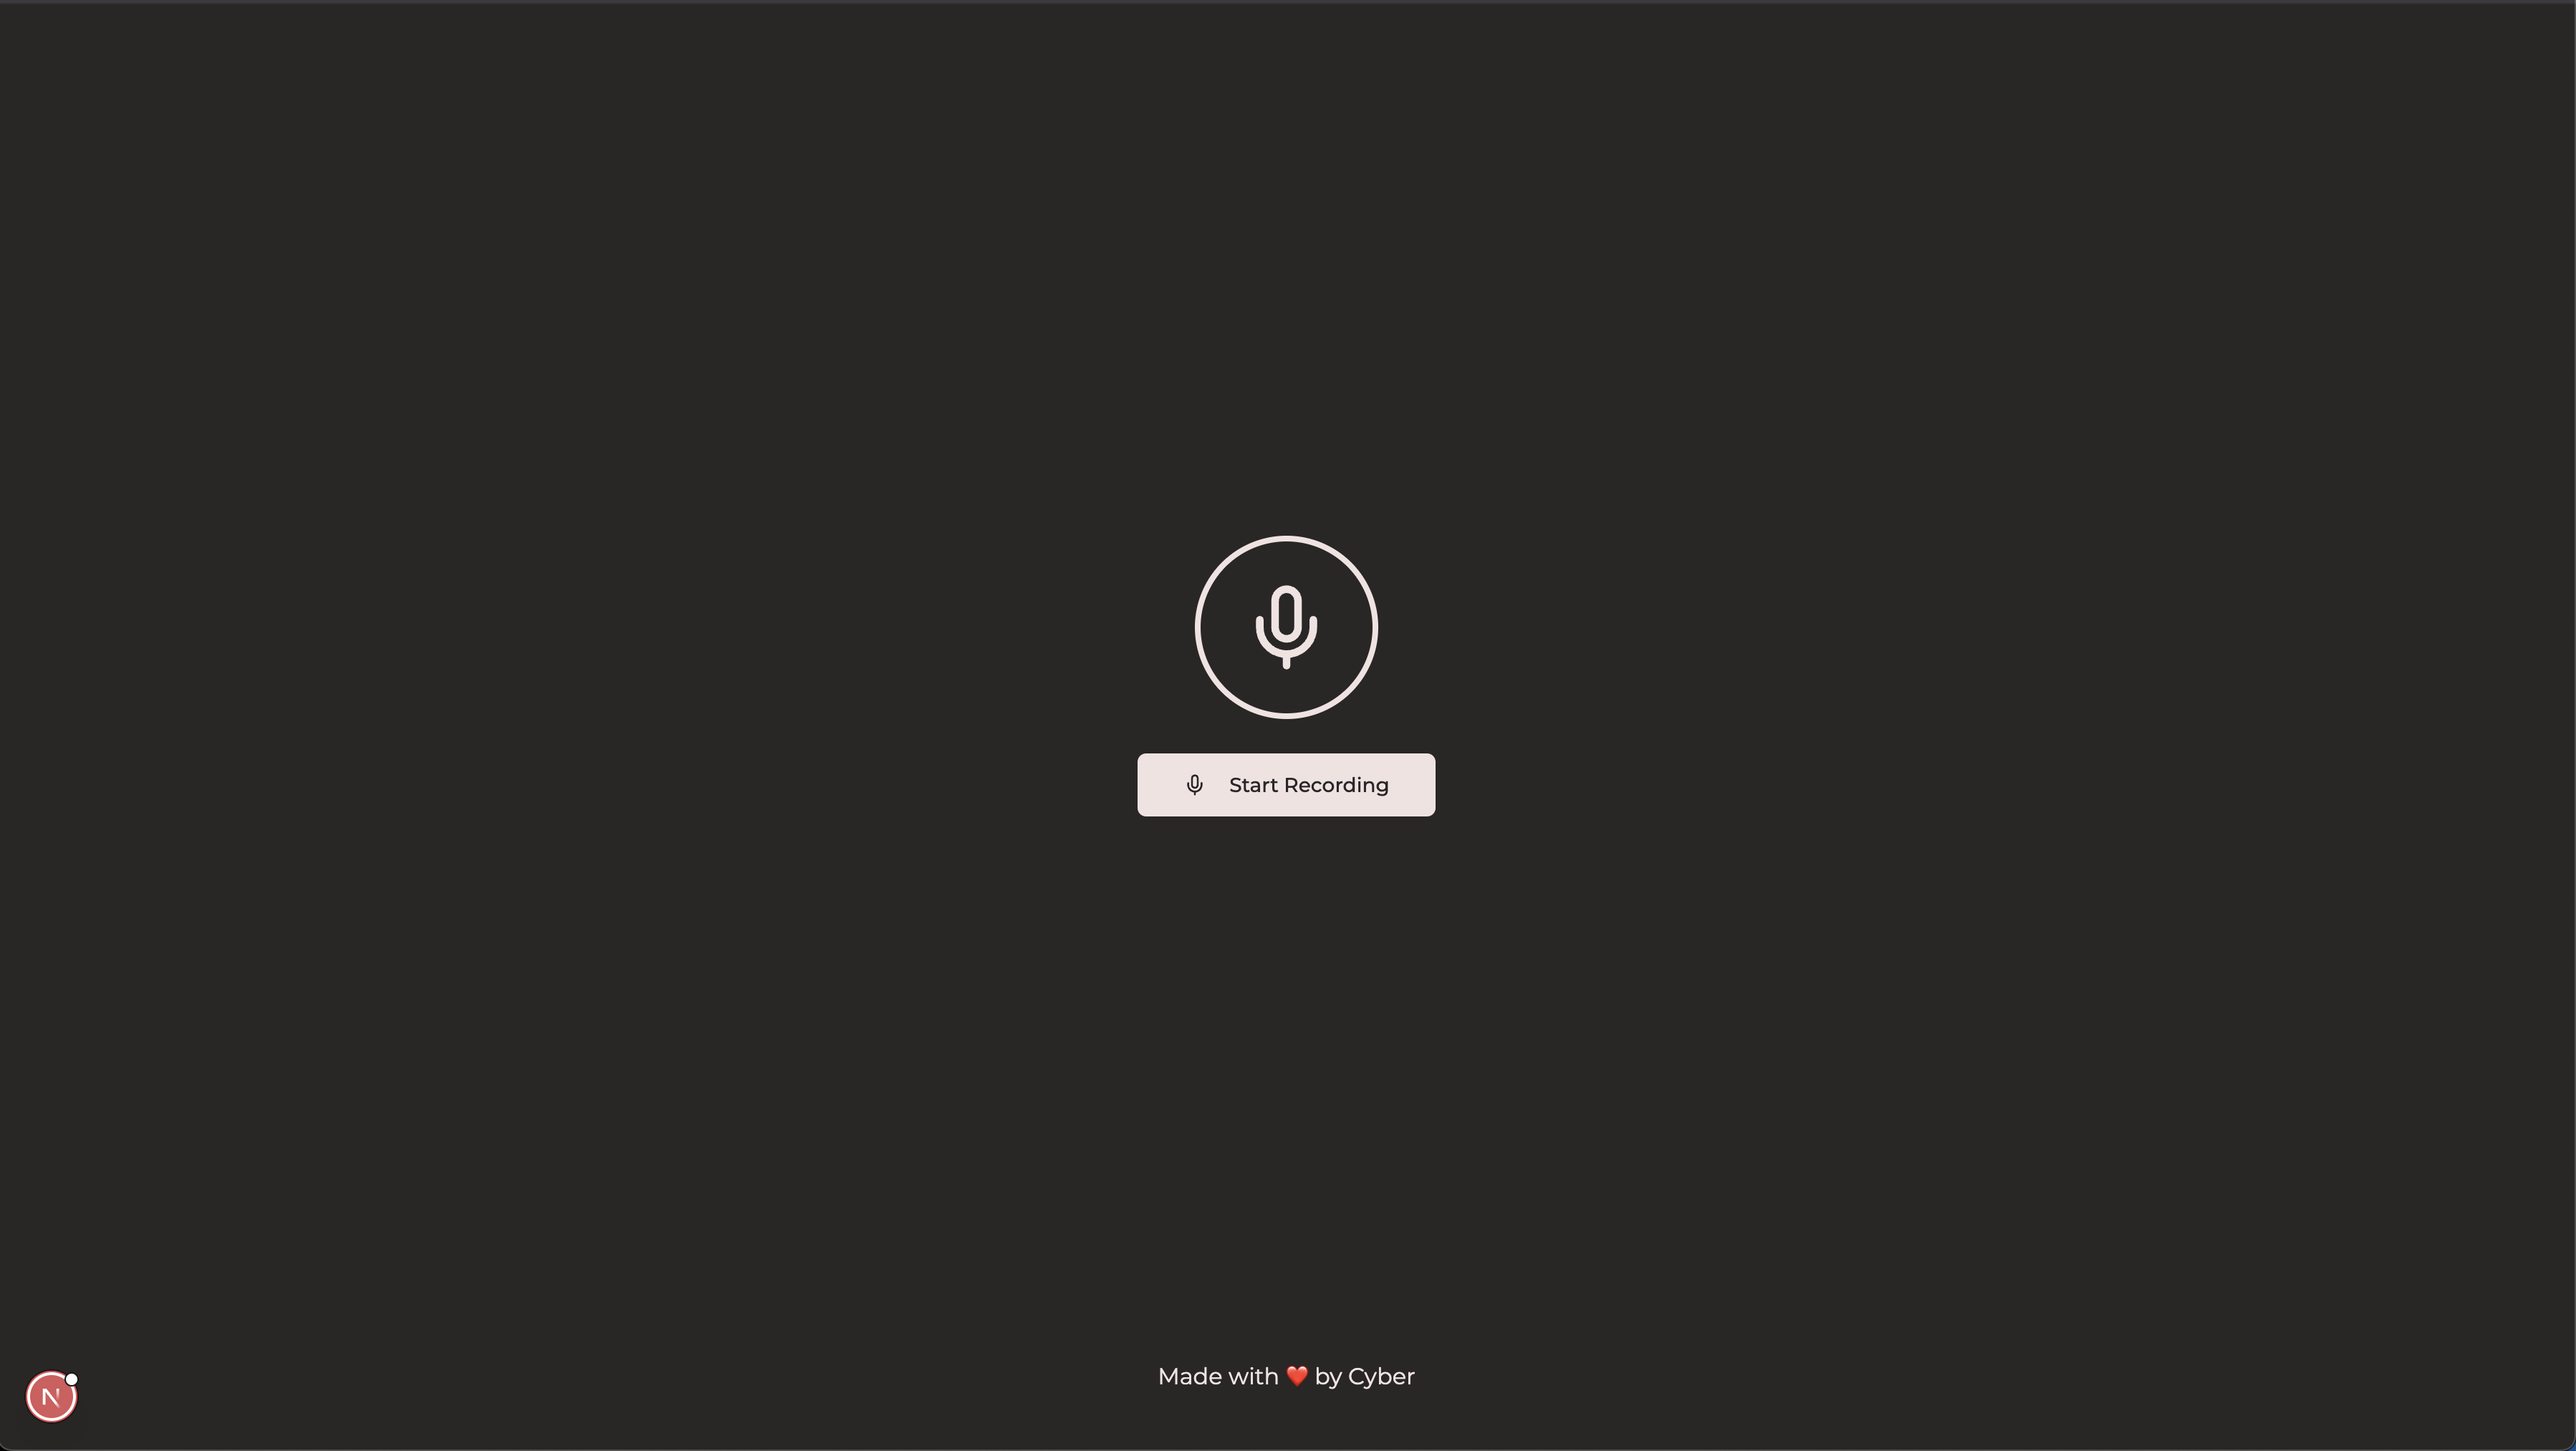
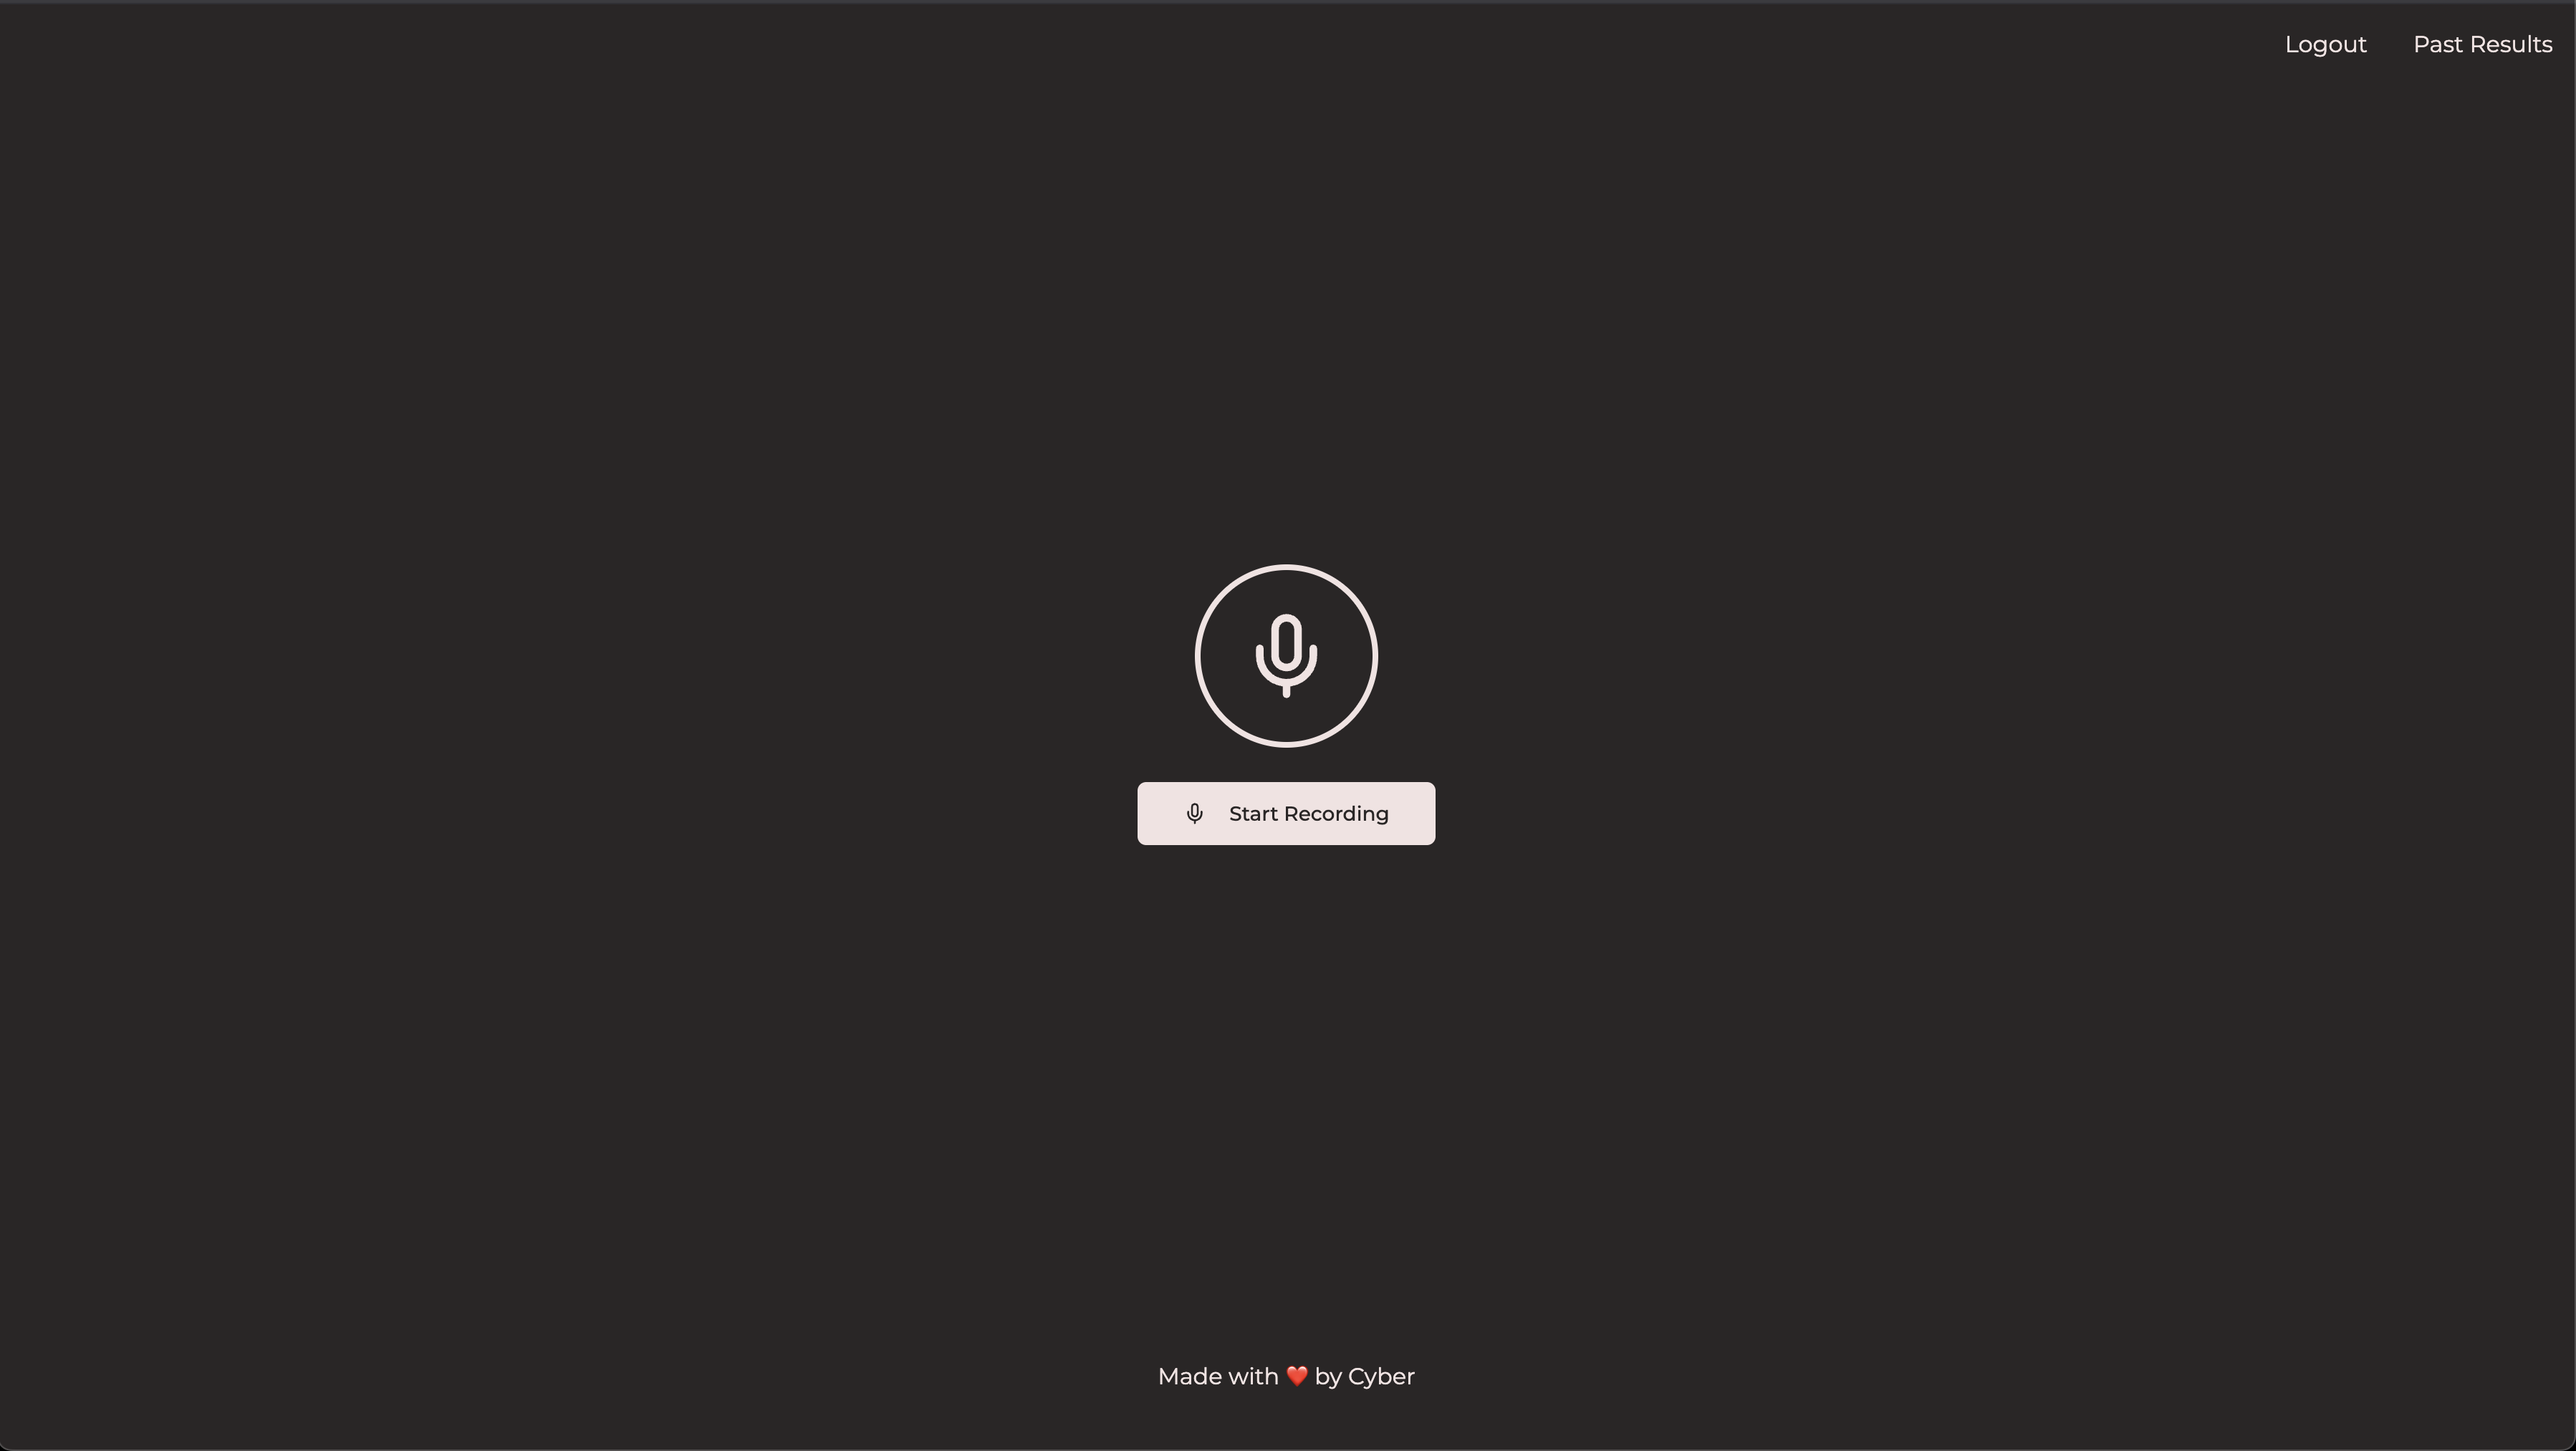
update readme and screenshots

Changed region(s): [[0.436, 0.3731, 0.5606, 0.5908], [0.0, 0.9329, 0.0311, 0.9951], [0.9967, 0.9951, 1.0, 1.0]]

diff --git a/audio-analysis-app/app/layout.tsx b/audio-analysis-app/app/layout.tsx
@@ -32,7 +32,3 @@ export default function RootLayout({
     </html>
   )
 }
-
-
-
-import './globals.css'

diff --git a/README.md b/README.md
@@ -3,10 +3,10 @@
 This is an extremely basic app that I built to practice my english accent with GPT-4o's latest audio model.  
 It's built on a React/Next.js frontend and a Python/Django backend.  
   
-Open declaration: The frontend is vibe-coded within 2 messages on v0.dev 😭  
-I changed a few things around obviously and the API paths are hardcoded to localhost right now.  
+Open declaration: The frontend was initially generated within 2 messages on v0.dev 😭  
+After that, I grew it myself and changed a few things around obviously and the API paths are hardcoded to localhost right now.  
 
-The project is only 10% done - with no authorization or databases involved right now, however it's basic intended functionality works. Bells and whistles will be added by me slowly but surely.
+The project is far from done, however it's basic intended functionality works. Bells and whistles will be added by me slowly but surely.
 
 # Backend
 
@@ -43,9 +43,17 @@ Install all the packages using your favourite package manager and then
 - `next dev`
 
 ## Screenshots
-
+![Landing page](screenshots/landing_page.png)
+![Signup page](screenshots/signup_form.png)
+![Login page](screenshots/login_form.png)
 ![Start recording screen](screenshots/start_recording.png)
-![Results screen after analysis](screenshots/results.png)
+![Recording page](screenshots/recording.png)
+![Recording page finished](screenshots/recording_finished.png)
+![Analysis page](screenshots/analyzing.png)
+![Results screen after analysis](screenshots/result_page.png)
+![Past results page](screenshots/past_results.png)
+
+
 
 ## Planned features
 - [x] Add a database to store user data
